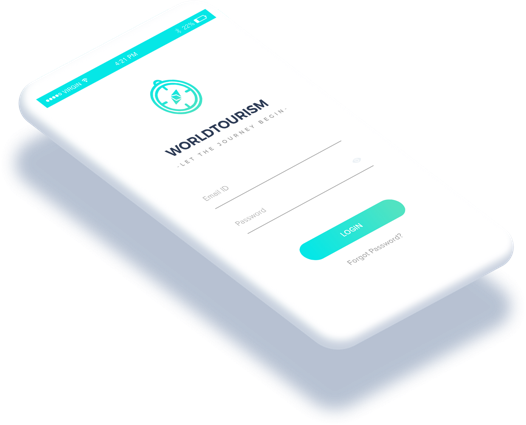
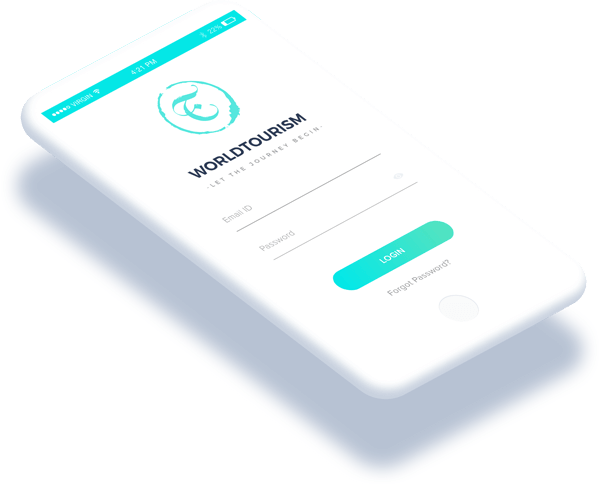
front-end bugs fixed

diff --git a/public/views/home.html b/public/views/home.html
@@ -6,12 +6,12 @@
 			<!-- <source src="ny.mp4" type="video/mp4"> -->
 		</video>
 		<div class="col s12 wto-home-bg">
-			<div class="text-center" style="margin-top: 120px;">
+			<div class="text-center" style="margin-top: 100px;">
 				<span class="wto-home-span">WORLD</span>
 				<img class="logo" src="/img/tourcoin.png">
 				<span class="wto-home-span">TOURISM</span>
 			</div>
-			<div class="text-center wto-journey-text topgap20">- LET THE JOURNEY BEGINS -</div>
+			<div class="text-center wto-journey-text topgap20">- LET THE JOURNEY BEGIN -</div>
 			<div class="text-center relative topgap40">
 				<img src="/img/frame.png" class="wto-frame">
 				<span class="wto-frame-text">
@@ -32,7 +32,7 @@
 	<div class="row wto-white-bg">
 		<div class="col s1">&nbsp;</div>
 		<div class="col s10 topgap40">
-			<h5 class="text-center font-27">
+			<h5 class="text-center font-27" style="margin-top: 20px;">
 				<span class="font-weight-100">About</span>
 				<span class="font-weight-600"> US</span>
 			</h5>
@@ -79,7 +79,7 @@
 			<div class="row">
 				<div class="col s6 m4 text-center">
 					<span class="core-img-container">
-						<img src="/img/core/trading.svg" style="margin-top: 50%;transform: translateY(-50%);">
+						<img src="/img/core/trading.svg" style="margin-top: 50%;margin-left:56%;transform: translate(-50%,-50%);">
 					</span>
 					<div class="core-head-title topgap20">TRADING</div>
 					<div class="core-text-container full-padding hide-on-small-only">
@@ -92,7 +92,7 @@
 					</span>
 					<div class="core-head-title topgap20">TRANSPARENCY</div>
 					<div class="core-text-container full-padding hide-on-small-only">
-						To provides timely, meaningful and reliable disclosures about the company's decentralized objectives, finanacial performance & future frameworks.
+						We provide timely, meaningful and reliable disclosures about the company's decentralized objectives, finanacial performance & future frameworks.
 					</div>
 				</div>
 				<div class="col s6 m4 text-center hide-on-small-only">
@@ -127,7 +127,7 @@
 					</span>
 					<div class="core-head-title topgap20">FIXED DEPOSIT</div>
 					<div class="core-text-container full-padding hide-on-small-only">
-						Fixed Deposits is an investment opportunity where you can store your Tourcoins and earn a fixed periodic interest as well as company and mining profits on the same.
+						Fixed Deposits is an investment opportunity where you can store your Tourcoins and earn a fixed periodic interest as well as company's mining profits on the same.
 					</div>
 				</div>
 			</div>
@@ -145,7 +145,7 @@
 					</span>
 					<div class="core-head-title topgap20">MINING</div>
 					<div class="core-text-container full-padding hide-on-small-only">
-						Tourcoin mining is the process by which new Tourcoins will be generated. You can mine Tourcoins with a CPU/GPU/ASIC. A total of 21 millions coin will be mined.
+						Tourcoin mining is the process by which new Tourcoins will be generated. You can mine Tourcoins with a CPU/GPU/ASIC. A total of 21 Million coin will be mined.
 					</div>
 				</div>
 				<div class="col s6 m4 text-center">
@@ -154,7 +154,7 @@
 					</span>
 					<div class="core-head-title topgap20">CLOUD MINING</div>
 					<div class="core-text-container full-padding hide-on-small-only">
-						You can now join our cloud mine without the hassle of buying and maintaining equipment, managing electricity and resources cost etc.
+						You can now join our cloud mine without the hassle of buying maintaining equipment, managing electricity and resources cost etc.
 					</div>
 				</div>
 				<div class="col s2 m2 hide-on-small-only">&nbsp;</div>
@@ -173,7 +173,7 @@
 					</span>
 					<div class="core-head-title topgap20">STAKING</div>
 					<div class="core-text-container full-padding hide-on-small-only">
-						Earn Up to 150% return annualy through restructuring & POS minting. It is very simple to earn through this method, by just holding & storing coins in your TOURCOIN-QT wallet.
+						Earn Up to 150% return annualy through restructuring & POS minting. It is very simple to earn by just holding and storing coins in your TOURCOIN QT wallet.
 					</div>
 				</div>
 				<div class="col m4 s6 text-center">
@@ -191,7 +191,7 @@
 					</span>
 					<div class="core-head-title topgap20">FIXED DEPOSIT</div>
 					<div class="core-text-container full-padding hide-on-small-only">
-						Fixed Deposits is an investment opportunity where you can store your Tourcoins and earn a fixed periodic interest as well as company and mining profits on the same.
+						Fixed Deposits is an investment opportunity where you can store your Tourcoins and earn a fixed periodic interest as well as company's mining profits on the same.
 					</div>
 				</div>
 			</div>
@@ -219,7 +219,7 @@
 					</span>
 					<div class="core-head-title topgap20">GLOBALIZATION</div>
 					<div class="core-text-container full-padding hide-on-small-only">
-						To increase interaction of people through the growth of the international flow of tourists, finances, ideas and culture. Primary objective for an economic and decentralized process of integration which has social and cultural aspects.
+						To increase interaction of people through the growth of international flow of tourists, finances, ideas and culture. Primary objective for an economic and decentralized process of integration which has social and cultural aspects.
 					</div>
 				</div>
 				<div class="col s2 m2 hide-on-small-only">&nbsp;</div>
@@ -267,7 +267,7 @@
 					<div class="font-20 topgap12" style="color: #9b9b9b;">ON GOOGLE PLAY & APP STORE</div>
 					<div class="topgap40">
 						<img src="/img/appstore.svg">
-						<img src="/img/google-play.svg" class="leftgap20">
+						<img src="/img/google-play.svg" class="leftgap15">
 					</div>
 				</div>
 			</div>
@@ -336,5 +336,24 @@
 		<div class="col s1">&nbsp;</div>
 	</div>
 
-
+	<div class="row wto-white-bg" style="border-top: 4px solid #faf9fe">
+		<div class="col s1 m1 hide-on-small-only">&nbsp;</div>
+		<div class="col s12 m10 topgap20 bottomgap40">
+			<div class="row">
+				<div>
+					<h5 class="text-center" style="margin-top: 20px;margin-bottom: 0;">
+						<span class="font-24" style="color: #7f848b">Subscribe For Newsletter</span>
+					</h5>
+				</div>
+				<div class="col s12 text-center topgap30">
+					<span class="inline-block relative">
+						<input type="email" ng-model="mailId" placeholder="Email" class="wto-news-sub">
+						<img src="/img/email.svg" class="news-icon">
+						<span class="news-subscribe" ng-click="subscribeMail(mailId)">SUBSCRIBE</span>
+					</span>
+				</div>
+			</div>
+		</div>
+		<div class="col s1 m1 hide-on-small-only">&nbsp;</div>
+	</div>
 </div>

diff --git a/public/views/directives/wtoFooter.html b/public/views/directives/wtoFooter.html
@@ -14,16 +14,16 @@
 					<img src="/img/social/instagram.svg" class="social-leftgap">			
 				</div>
 				<div class="row vac-container">
-					<div class="col s4">
-						<div class="font-14 font-weight-500 label-grey topgap6">Vision</div>
-						<div class="label-blue font-12 font-weight-500 topgap12">Whitepaper</div>
+					<div class="col s4" style="padding-left: 0;">
+						<div class="font-14 font-weight-400 label-grey topgap6">Vision</div>
+						<div class="label-blue font-12 font-weight-400 topgap12">Whitepaper</div>
 					</div>
-					<div class="col s4">
-						<div class="font-14 font-weight-500 label-grey topgap6">Address</div>
-						<div class="label-light-grey font-12 font-weight-500 topgap12">Harbour Parade, Southampton SO15</div>
+					<div class="col s4" style="padding-left: 0;">
+						<div class="font-14 font-weight-400 label-grey topgap6">Address</div>
+						<div class="label-light-grey font-12 font-weight-400 topgap12">Harbour Parade, Southampton SO15</div>
 					</div>
-					<div class="col s4">
-						<div class="font-14 font-weight-500 label-grey topgap6">Contact Us</div>
+					<div class="col s4" style="padding-left: 0;">
+						<!-- <div class="font-14 font-weight-400 label-grey topgap6">Contact Us</div> -->
 					</div>
 				</div>
 			</div>
@@ -33,22 +33,22 @@
 				</div>
 				<div class="row vac-container">
 					<div class="col s6 m4 hide-on-small-only">
-						<div class="font-13 label-light-grey topgap20" style="padding-top: 15px;border-top:1px solid transparent">&nbsp;</div>
+						<div class="font-13 label-light-grey topgap20" style="padding-top: 10px;border-top:1px solid transparent">&nbsp;</div>
 					</div>
 					<div class="col s6 m4">
-						<div class="font-13 label-light-grey topgap20" style="padding-top: 15px;border-top:1px solid #e8e9ed">About</div>
+						<div class="font-13 label-light-grey topgap20" style="padding-top: 10px;border-top:1px solid #e8e9ed">About</div>
 					</div>
 					<div class="col s6 m4">
-						<div class="label-light-grey font-13 topgap20" style="padding-top: 15px;border-top:1px solid #e8e9ed">Terms and Conditions</div>
+						<div class="label-light-grey font-13 topgap20" style="padding-top: 10px;border-top:1px solid #e8e9ed">Terms and Conditions</div>
 					</div>
 					<div class="col s6 m4 hide-on-small-only">
-						<div class="font-13 label-light-grey topgap12">&nbsp;</div>
+						<div class="font-13 label-light-grey topgap10">&nbsp;</div>
 					</div>
 					<div class="col s6 m4">
-						<div class="font-13 label-light-grey topgap20" style="padding-top: 15px;border-top:1px solid #e8e9ed">FAQs</div>
+						<div class="font-13 label-light-grey topgap10" style="padding-top: 10px;border-top:1px solid #e8e9ed">FAQs</div>
 					</div>
 					<div class="col s6 m4">
-						<div class="label-light-grey font-13 topgap20" style="padding-top: 15px;border-top:1px solid #e8e9ed">Crew</div>
+						<div class="label-light-grey font-13 topgap10" style="padding-top: 10px;border-top:1px solid #e8e9ed">Crew</div>
 					</div>
 				</div>
 			</div>

diff --git a/public/css/wtoMain.css b/public/css/wtoMain.css
@@ -25,13 +25,13 @@
 @font-face {
     font-family: Montserrat;
     font-weight: 300;
-    src: url("/fonts/Montserrat-Light.otf") format("opentype");
+    src: url("/fonts/Montserrat-ExtraLight.otf") format("opentype");
 }
 
 @font-face {
     font-family: Montserrat;
     font-weight: 100;
-    src: url("/fonts/Montserrat-ExtraLight.otf") format("opentype");
+    src: url("/fonts/Montserrat-Thin.otf") format("opentype");
 }
 
 html,body {
@@ -86,8 +86,8 @@ html,body {
 .topgap15{
 	margin-top: 15px;
 }
-.topgap8{
-  margin-top: 8px;
+.topgap10{
+  margin-top: 10px;
 }
 .topgap6{
 	margin-top: 6px;
@@ -115,6 +115,9 @@ html,body {
 }
 .leftgap20{
 	margin-left: 20px;
+}
+.leftgap15{
+	margin-left: 15px;
 }
 .leftgap12{
 	margin-left: 12px;
@@ -271,7 +274,7 @@ video {
 	letter-spacing: 10px;
 	text-align: center;
 	color: #05e7e6;
-	text-shadow: 0 0 10px #0b1b33;
+	/*text-shadow: 0 0 10px #0b1b33;*/
 }
 .logo{
 	width: 78px;
@@ -280,6 +283,10 @@ video {
 	margin: 0 20px 0 20px;
     display: inline-block;
     vertical-align: middle;
+}
+.wto-frame{
+	width: 47%;
+	height: auto;
 }
 .wto-frame-text{
 	position: absolute;
@@ -307,12 +314,12 @@ video {
 .mail-icon{
 	position: absolute;
     left: 20px;
-    top: 3px;
+    top: 5px;
 }
 .mail-subscribe{
 	cursor: pointer;
 	position: absolute;
-	right: 20px;
+	right: 12px;
 	width: 90px;
 	height: 24px;
 	border-radius: 100px;
@@ -322,7 +329,45 @@ video {
 	text-align: center;
 	color: #2e3c56;
 	top: -1px;
-	padding: 0.4%;
+	/*padding: 0.4%;*/
+	display: flex;
+	align-items: center;
+	justify-content: center;
+}
+.wto-news-sub{
+	width: 450px!important;
+	height: 45px!important;
+	border-radius: 100px!important;
+	background-color: #fafafa!important;
+	border: solid 2px #eaeaea!important;
+	padding: 0px 115px 0px 45px!important;
+	color: #7f848b!important;
+	margin: 0!important;
+	position: relative!important;
+	font-size: 14px!important;
+}
+.news-icon{
+	position: absolute;
+    left: 20px;
+    top: 4px;
+}
+.news-subscribe{
+	cursor: pointer;
+	position: absolute;
+	right: 12px;
+	width: 90px;
+	height: 24px;
+	border-radius: 100px;
+	background-color: #05e7e6;
+	font-size: 10px;
+	font-weight: 600;
+	text-align: center;
+	color: #fff;
+	top: -1px;
+	/*padding: 0.4%;*/
+	display: flex;
+	align-items: center;
+	justify-content: center;
 }
 input:focus{
 	outline: none!important;
@@ -379,7 +424,7 @@ input:focus{
 	padding: 4px 8px;
 	vertical-align: middle;
 	position: absolute;
-	right: 35px;
+	right: 10px;
 	top: 50%;
 	transform: translateY(-50%);
 }
@@ -509,6 +554,9 @@ input:focus{
 	.wto-mail-sub{
 		width: 200px!important;
 	}
+	.wto-news-sub{
+		width: 200px!important;
+	}
 	.join-ico{
 		margin-left: 0px;
 		margin-top: 20px;
@@ -528,9 +576,9 @@ input:focus{
 	.social-leftgap{
 		margin-left: 20px;
 	}
-	.mail-subscribe{
+	/*.mail-subscribe{
 		padding: 1%;
-	}
+	}*/
 	.center-xs{
 		text-align: center;
 	}

diff --git a/public/views/index.html b/public/views/index.html
@@ -1,7 +1,7 @@
 <!DOCTYPE html>
 <html ng-app="worldTourApp">
 <head>
-	<title>World Tour Coin</title>
+	<title>World TourCoin</title>
 	<!-- meta tags -->
 	<meta name="viewport" content="width=device-width, initial-scale=1.0"/>
 	<meta http-equiv='content-type', content='text/html; charset=UTF-8'>
@@ -12,20 +12,21 @@
 	<link href="https://fonts.googleapis.com/icon?family=Material+Icons" rel="stylesheet">
 	<link type="text/css" rel="stylesheet" href="/libraries/materialize/dist/css/materialize.min.css"  media="screen,projection"/>
 	<meta name='viewport', content='width=device-width, initial-scale=1, maximum-scale=1'>
+	<link rel="shortcut icon" type="image/x-icon" href="/img/meta-ico.png">
 	<link rel="stylesheet" type="text/css" href="/css/wtoMain.css">
 </head>
 <body>
 	<div ui-view></div>
 	<wto-footer></wto-footer>
 	<!-- scripts -->
-	<script type="text/javascript" src="/libraries/angular/angular.js"></script>
-	<script type="text/javascript" src="/libraries/angular-route/angular-route.js"></script>
-	<script type="text/javascript" src="/libraries/angular-sanitize/angular-sanitize.js"></script>
-	<script type="text/javascript" src="/libraries/angular-ui-router/release/angular-ui-router.js"></script>
+	<script type="text/javascript" src="/libraries/angular/angular.min.js"></script>
+	<script type="text/javascript" src="/libraries/angular-route/angular-route.min.js"></script>
+	<script type="text/javascript" src="/libraries/angular-sanitize/angular-sanitize.min.js"></script>
+	<script type="text/javascript" src="/libraries/angular-ui-router/release/angular-ui-router.min.js"></script>
 	<script type="text/javascript" src="https://code.jquery.com/jquery-3.2.1.js"></script>
-	<script type="text/javascript" src="/libraries/materialize/dist/js/materialize.js"></script>
-	<script type="text/javascript" src="/libraries/chart.js/dist/Chart.js"></script>
-	<script type="text/javascript" src="/libraries/angular-chart.js/dist/angular-chart.js"></script>
+	<script type="text/javascript" src="/libraries/materialize/dist/js/materialize.min.js"></script>
+	<script type="text/javascript" src="/libraries/chart.js/dist/Chart.min.js"></script>
+	<script type="text/javascript" src="/libraries/angular-chart.js/dist/angular-chart.min.js"></script>
 
 	<script type="text/javascript" src="/js/app.js"></script>
 	<script type="text/javascript" src="/js/wtoController.js"></script>

diff --git a/public/js/wtoController.js b/public/js/wtoController.js
@@ -1,5 +1,4 @@
 worldTourApp.controller('wtoController', function($scope, $rootScope, $state, $timeout, $sce, $http, $window) {
-	console.log("controller");
 
 	$(document).ready(function(){
       $('.parallax').parallax();
@@ -21,6 +20,8 @@ worldTourApp.controller('wtoController', function($scope, $rootScope, $state, $t
 			if (res.data.subscriptionStatus) {
 				Materialize.toast('Subscribed Succesfully!', 4000);
 				$scope.mailId = null;
+			}else if(res.data.Error){
+				Materialize.toast('Mail Id Already Subscribed!', 4000);
 			}
 		}
 
